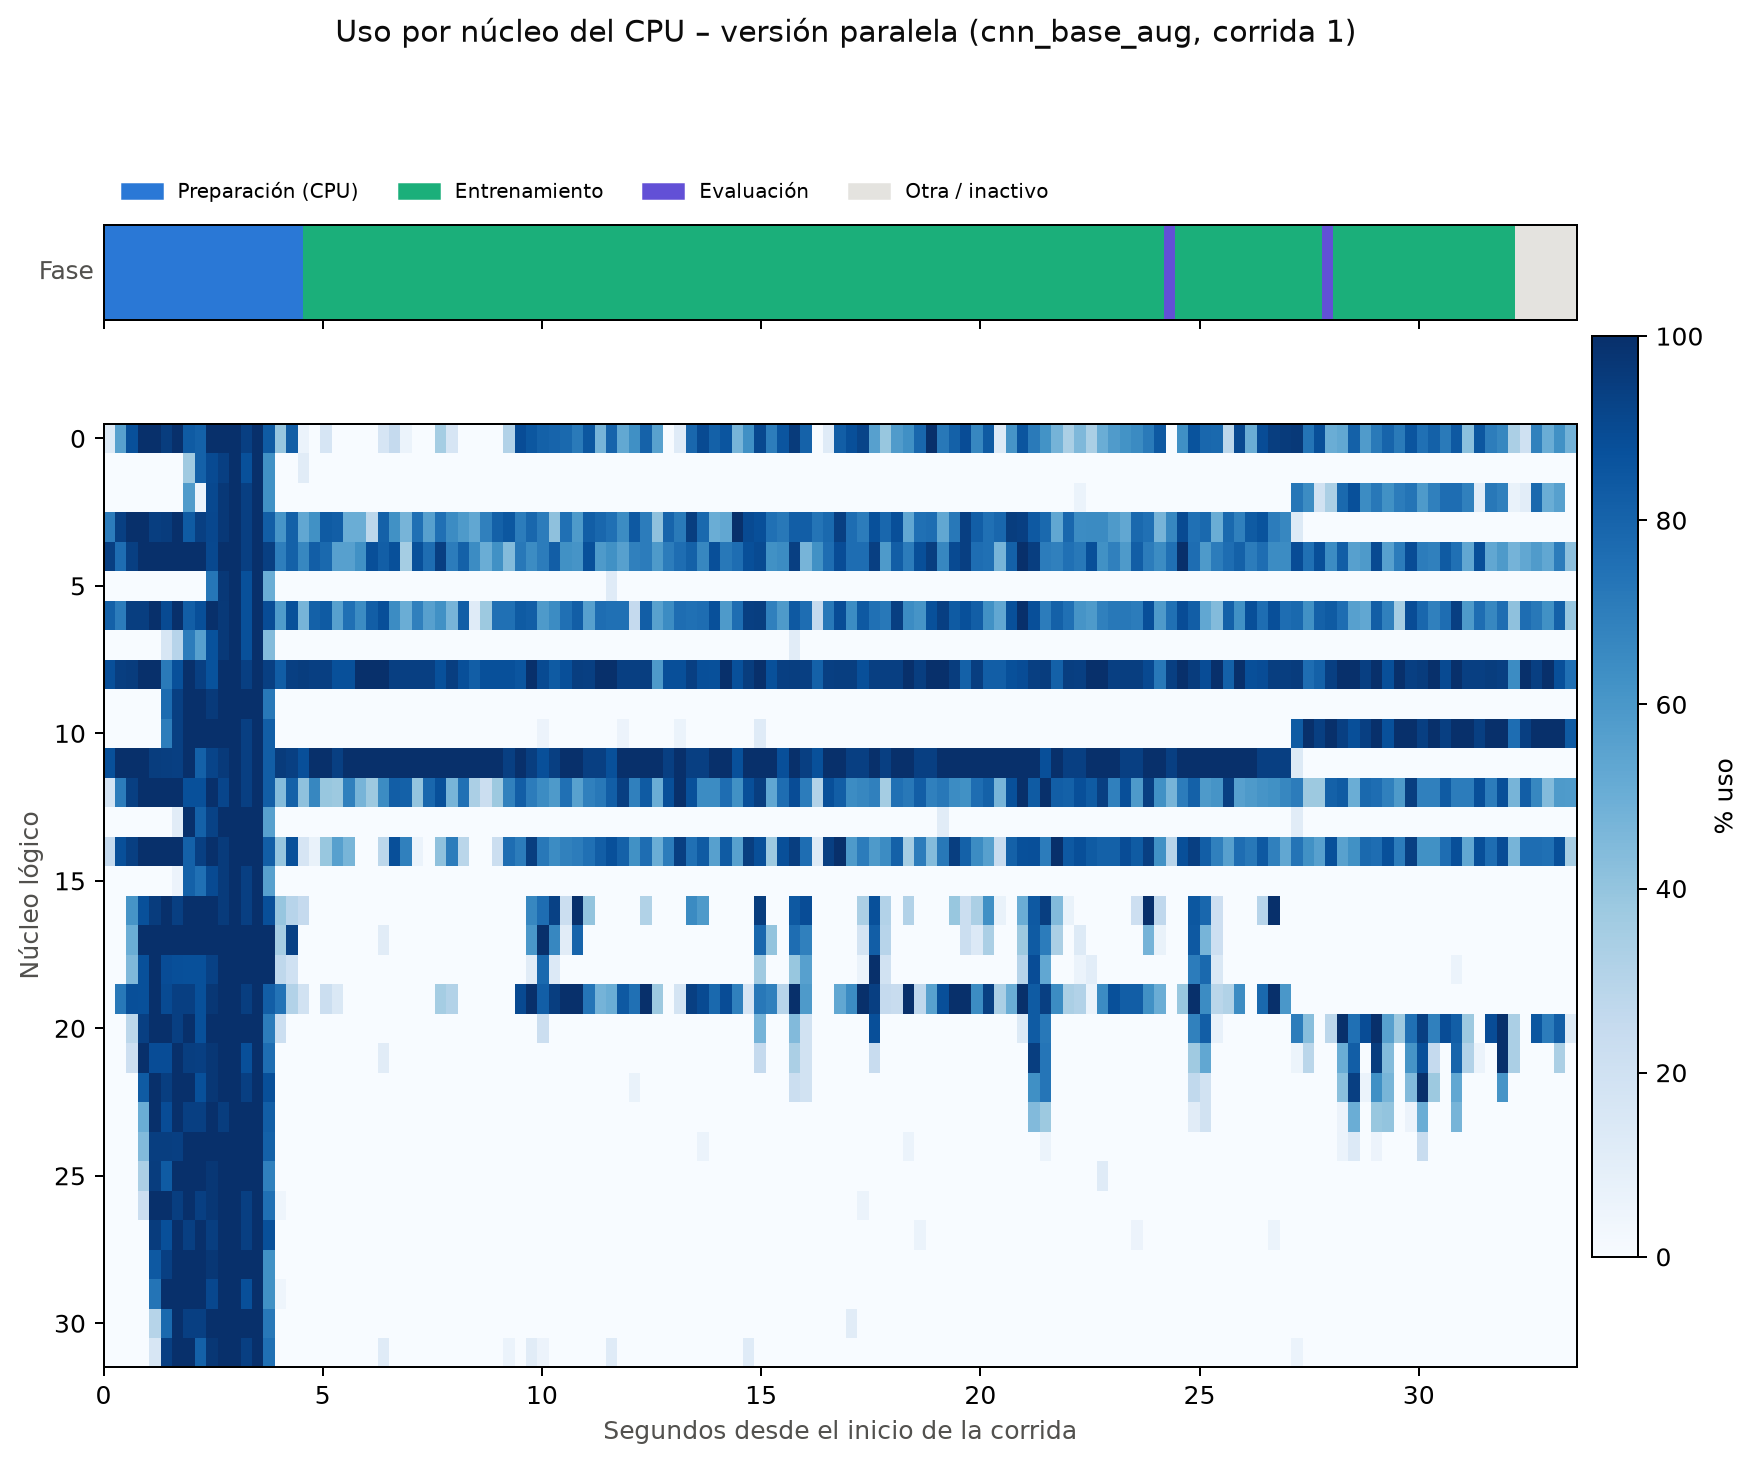
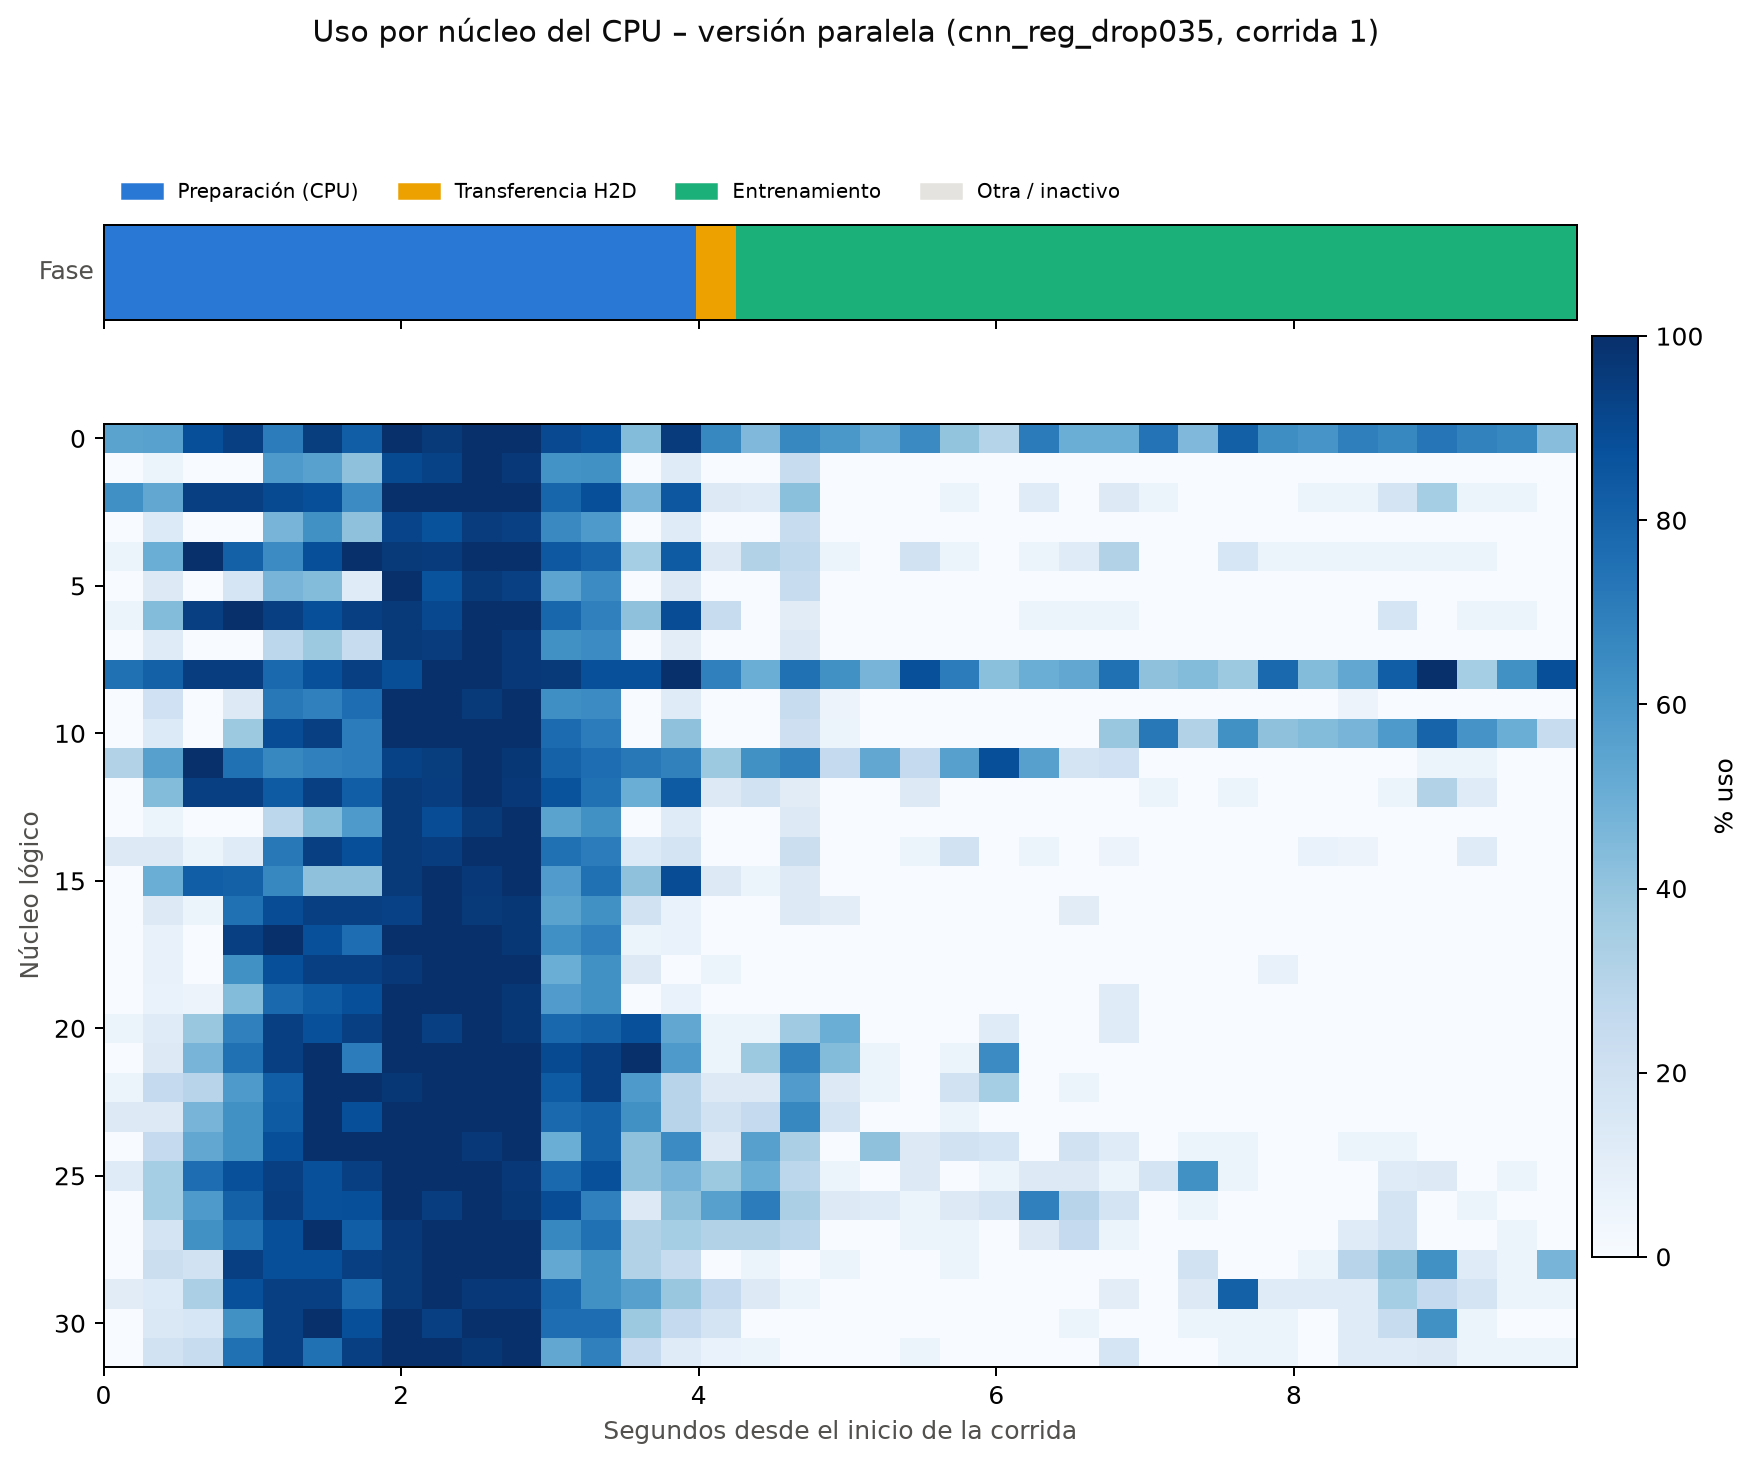
fix(plots): build monitoring figures from all benchmark executions
make_plots.py only read the latest cpu_por_nucleo/nvidia_smi CSV, so with the benchmark completed in several executions the sequential heatmap was missing and the GPU plot showed a single run. It now merges every execution, labels each GPU segment with its completed (non warm-up) runs, and the figures and EVIDENCIA.md are regenerated.

diff --git a/scripts/make_plots.py b/scripts/make_plots.py
@@ -170,17 +170,19 @@ def plot_speedup(data: pd.DataFrame, figure_dir: Path) -> None:
     plt.close(figure)
 
 
-def _latest(evidence_dir: Path, pattern: str) -> Path | None:
-    files = sorted(evidence_dir.glob(pattern))
-    return files[-1] if files else None
+def _load_cpu_samples(evidence_dir: Path) -> pd.DataFrame | None:
+    """Junta TODOS los ``cpu_por_nucleo_*.csv`` (el benchmark puede quedar repartido en varias ejecuciones)."""
+    files = sorted(evidence_dir.glob("cpu_por_nucleo_*.csv"))
+    if not files:
+        return None
+    return pd.concat([pd.read_csv(path, dtype={"corrida": str}) for path in files], ignore_index=True)
 
 
 def plot_cpu_cores(evidence_dir: Path, figure_dir: Path) -> None:
     """Mapa de calor núcleo × tiempo de la PRIMERA corrida medida de cada versión."""
-    path = _latest(evidence_dir, "cpu_por_nucleo_*.csv")
-    if path is None:
+    samples = _load_cpu_samples(evidence_dir)
+    if samples is None:
         return
-    samples = pd.read_csv(path)
     core_columns = [column for column in samples.columns if column.startswith("nucleo_")]
     for version in ("secuencial", "paralela"):
         frame = samples[(samples["version"] == version) & (samples["corrida"].astype(str) == "1")]
@@ -225,10 +227,9 @@ def plot_prep_cores(evidence_dir: Path, figure_dir: Path) -> None:
     Es la evidencia directa de la FASE 1: en la secuencial trabaja ~1 núcleo; en la
     paralela, todos. Promedia todas las muestras de la fase en todas las corridas medidas.
     """
-    path = _latest(evidence_dir, "cpu_por_nucleo_*.csv")
-    if path is None:
+    samples = _load_cpu_samples(evidence_dir)
+    if samples is None:
         return
-    samples = pd.read_csv(path)
     samples = samples[(samples["fase"] == "preparacion_cpu") & (samples["corrida"].astype(str) != "warmup")]
     versions = [version for version in ("secuencial", "paralela") if version in set(samples["version"])]
     if not versions:
@@ -256,14 +257,45 @@ def plot_prep_cores(evidence_dir: Path, figure_dir: Path) -> None:
 
 
 def plot_gpu(evidence_dir: Path, figure_dir: Path) -> None:
-    path = _latest(evidence_dir, "nvidia_smi_*.csv")
-    if path is None or path.stat().st_size == 0:
+    """Uso de la GPU en TODAS las ejecuciones del benchmark, una tras otra, con cada tramo rotulado."""
+    frames, segments = [], []
+    for path in sorted(evidence_dir.glob("nvidia_smi_2*.csv")):
+        if path.stat().st_size == 0:
+            continue
+        frame = pd.read_csv(path, skipinitialspace=True)
+        frame.columns = [column.split(" [")[0].strip() for column in frame.columns]
+        frame = frame[frame["timestamp"].astype(str) != "timestamp"]
+        if frame.empty:
+            continue
+        # Rótulo del tramo: versiones y modelos medidos en esa ejecución (del CSV de CPU con la misma marca).
+        label = path.stem.removeprefix("nvidia_smi_")
+        # Solo las combinaciones con al menos una corrida TERMINADA (línea "tiempos (s)" en el log), para no
+        # rotular intentos interrumpidos.
+        log = evidence_dir.parent / "results" / "logs" / f"benchmark_{label}.log"
+        if log.exists():
+            done, current = [], None
+            for line in log.read_text(encoding="utf-8", errors="replace").splitlines():
+                header = line.strip()
+                if " · " in header and header.split(" · ")[0] in ("SECUENCIAL", "PARALELA"):
+                    parts = header.split(" · ")
+                    # El calentamiento no cuenta: solo las corridas medidas ("corrida N/M").
+                    current = f"{parts[0].lower()} · {parts[1]}" if "corrida" in header else None
+                elif "tiempos (s)" in line and current and current not in done:
+                    done.append(current)
+            label = "\n".join(done) or label
+        start = sum(len(f) for f in frames)
+        segments.append((start, start + len(frame), label))
+        frames.append(frame)
+    if not frames:
         return
-    smi = pd.read_csv(path, skipinitialspace=True)
-    smi.columns = [column.split(" [")[0].strip() for column in smi.columns]
+    smi = pd.concat(frames, ignore_index=True)
     numeric = lambda column: pd.to_numeric(smi[column].astype(str).str.extract(r"([\d.]+)")[0], errors="coerce")
     seconds = np.arange(len(smi))
     figure, (ax_util, ax_mem) = plt.subplots(2, 1, figsize=(11, 5.5), sharex=True)
+    for start, end, label in segments:
+        for axis in (ax_util, ax_mem):
+            axis.axvline(start, color=INK_2, linestyle=":", linewidth=1)
+        ax_util.text((start + end) / 2, 103, label, ha="center", va="bottom", fontsize=7, color=INK_2)
     ax_util.plot(seconds, numeric("utilization.gpu"), color=COLORS["paralela"], linewidth=2)
     ax_util.set_ylabel("Uso de núcleos GPU (%)", color=INK_2)
     ax_util.set_ylim(0, 105)
@@ -272,7 +304,7 @@ def plot_gpu(evidence_dir: Path, figure_dir: Path) -> None:
     ax_mem.axhline(total, color=INK_2, linestyle="--", linewidth=1)
     ax_mem.text(seconds[-1] if len(seconds) else 0, total, " memoria total", va="bottom", ha="right", fontsize=8, color=INK_2)
     ax_mem.set_ylabel("Memoria usada (MiB)", color=INK_2)
-    ax_mem.set_xlabel("Segundos desde el inicio del benchmark (muestreo 1 s)", color=INK_2)
+    ax_mem.set_xlabel("Segundos de monitoreo (muestreo 1 s; ejecuciones del benchmark una tras otra)", color=INK_2)
     for axis in (ax_util, ax_mem):
         _style(axis)
     figure.suptitle(f"GPU durante el benchmark – {smi['name'].iloc[0] if 'name' in smi else ''}", color=INK)

diff --git a/evidence/EVIDENCIA.md b/evidence/EVIDENCIA.md
@@ -1,6 +1,6 @@
 # Evidencia de ejecución – Proyecto 3 (ASL + CUDA)
 
-Documento generado automáticamente por `scripts/armar_evidencia.py` el 2026-11-08 23:08.
+Documento generado automáticamente por `scripts/armar_evidencia.py` el 2026-11-08 23:20.
 Ejecuciones del benchmark incluidas: `20261107_234430`, `20261108_002048`, `20261108_222830`, `20261108_225815` (cada una con su log, su CSV de CPU por núcleo y su CSV de
 nvidia-smi con la misma marca de tiempo). Si hay más de una, es porque el benchmark oficial se completó en partes
 sobre el mismo `results/tiempos.csv`, con el mismo hardware, datos e hiperparámetros.
@@ -580,6 +580,10 @@ Tabla RESUMEN de speedup al final del benchmark.
 **Uso medio de cada núcleo durante la FASE 1 (secuencial vs paralela).**
 
 ![03_cpu_preparacion_por_nucleo.png](../results/figuras/03_cpu_preparacion_por_nucleo.png)
+
+**Mapa de calor del uso por núcleo a lo largo de la versión secuencial.**
+
+![03_cpu_nucleos_secuencial.png](../results/figuras/03_cpu_nucleos_secuencial.png)
 
 **Mapa de calor del uso por núcleo a lo largo de la versión paralela.**
 
